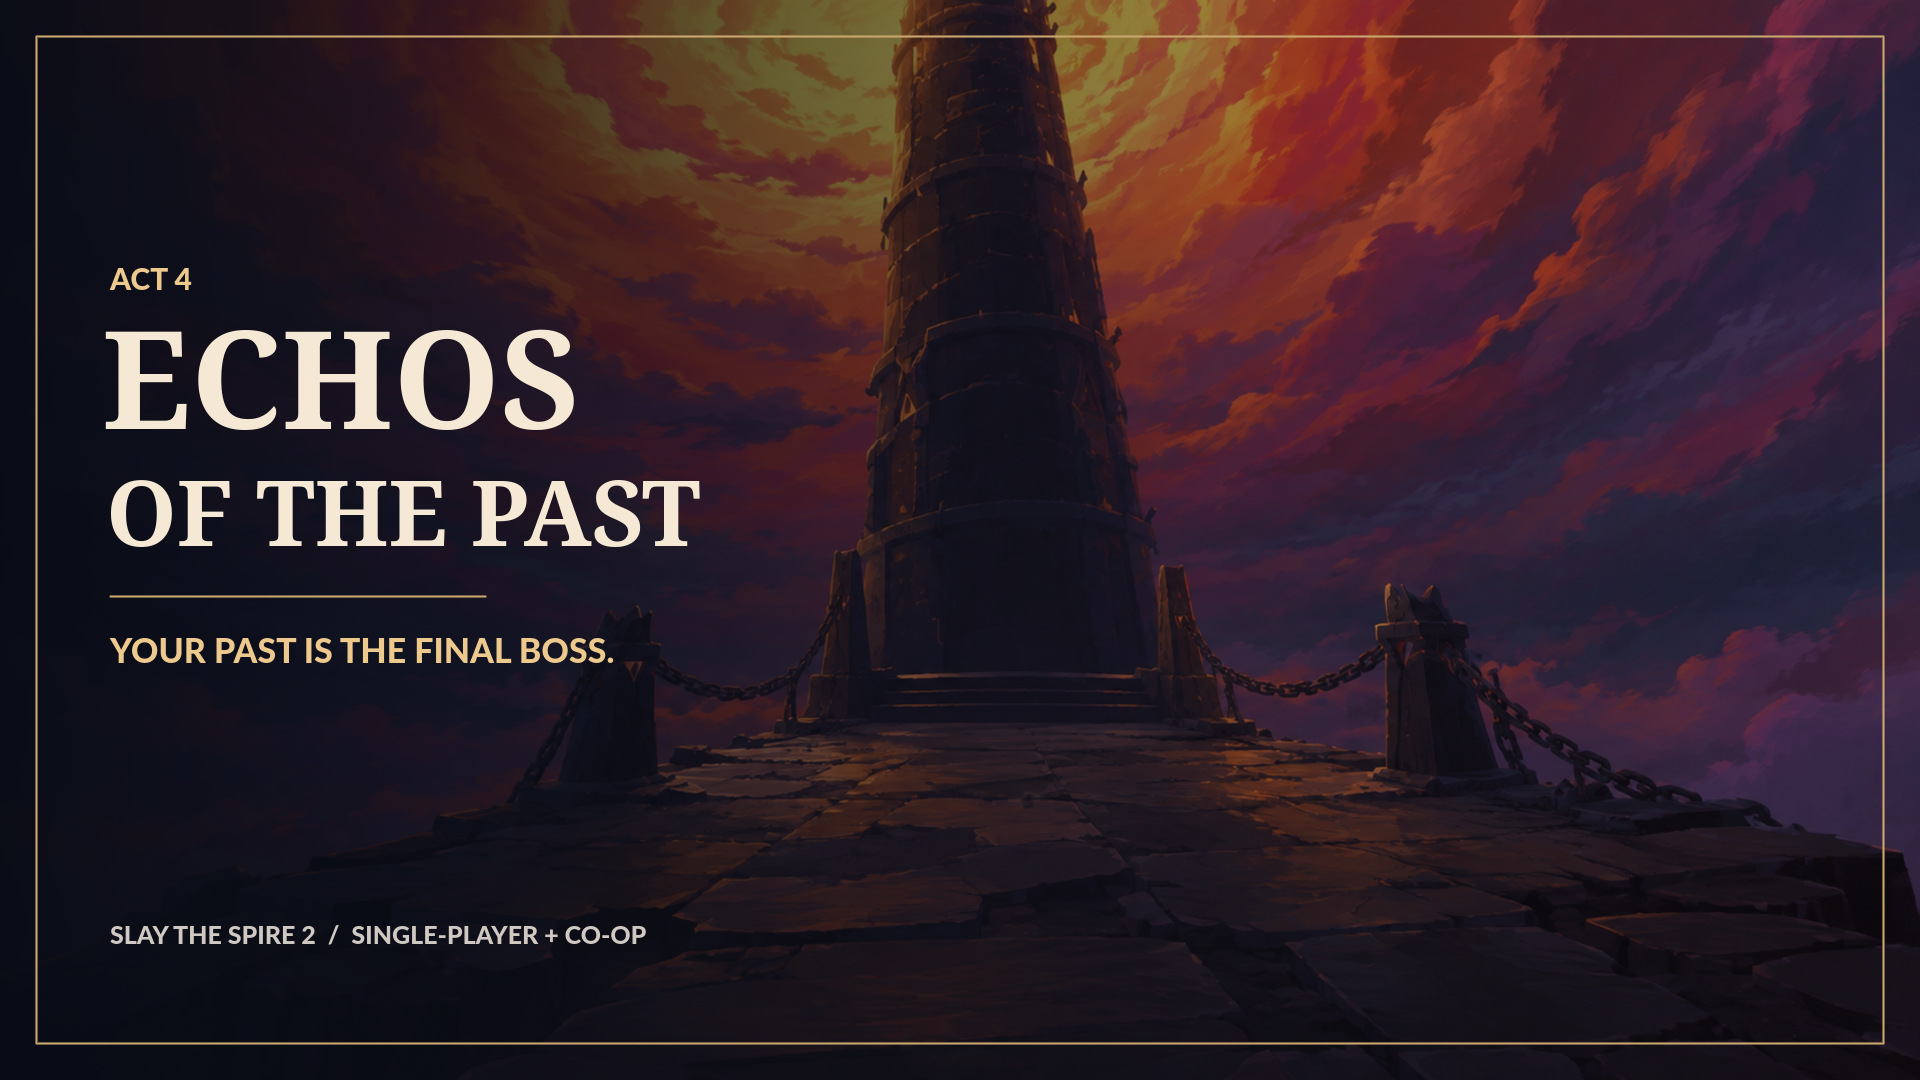
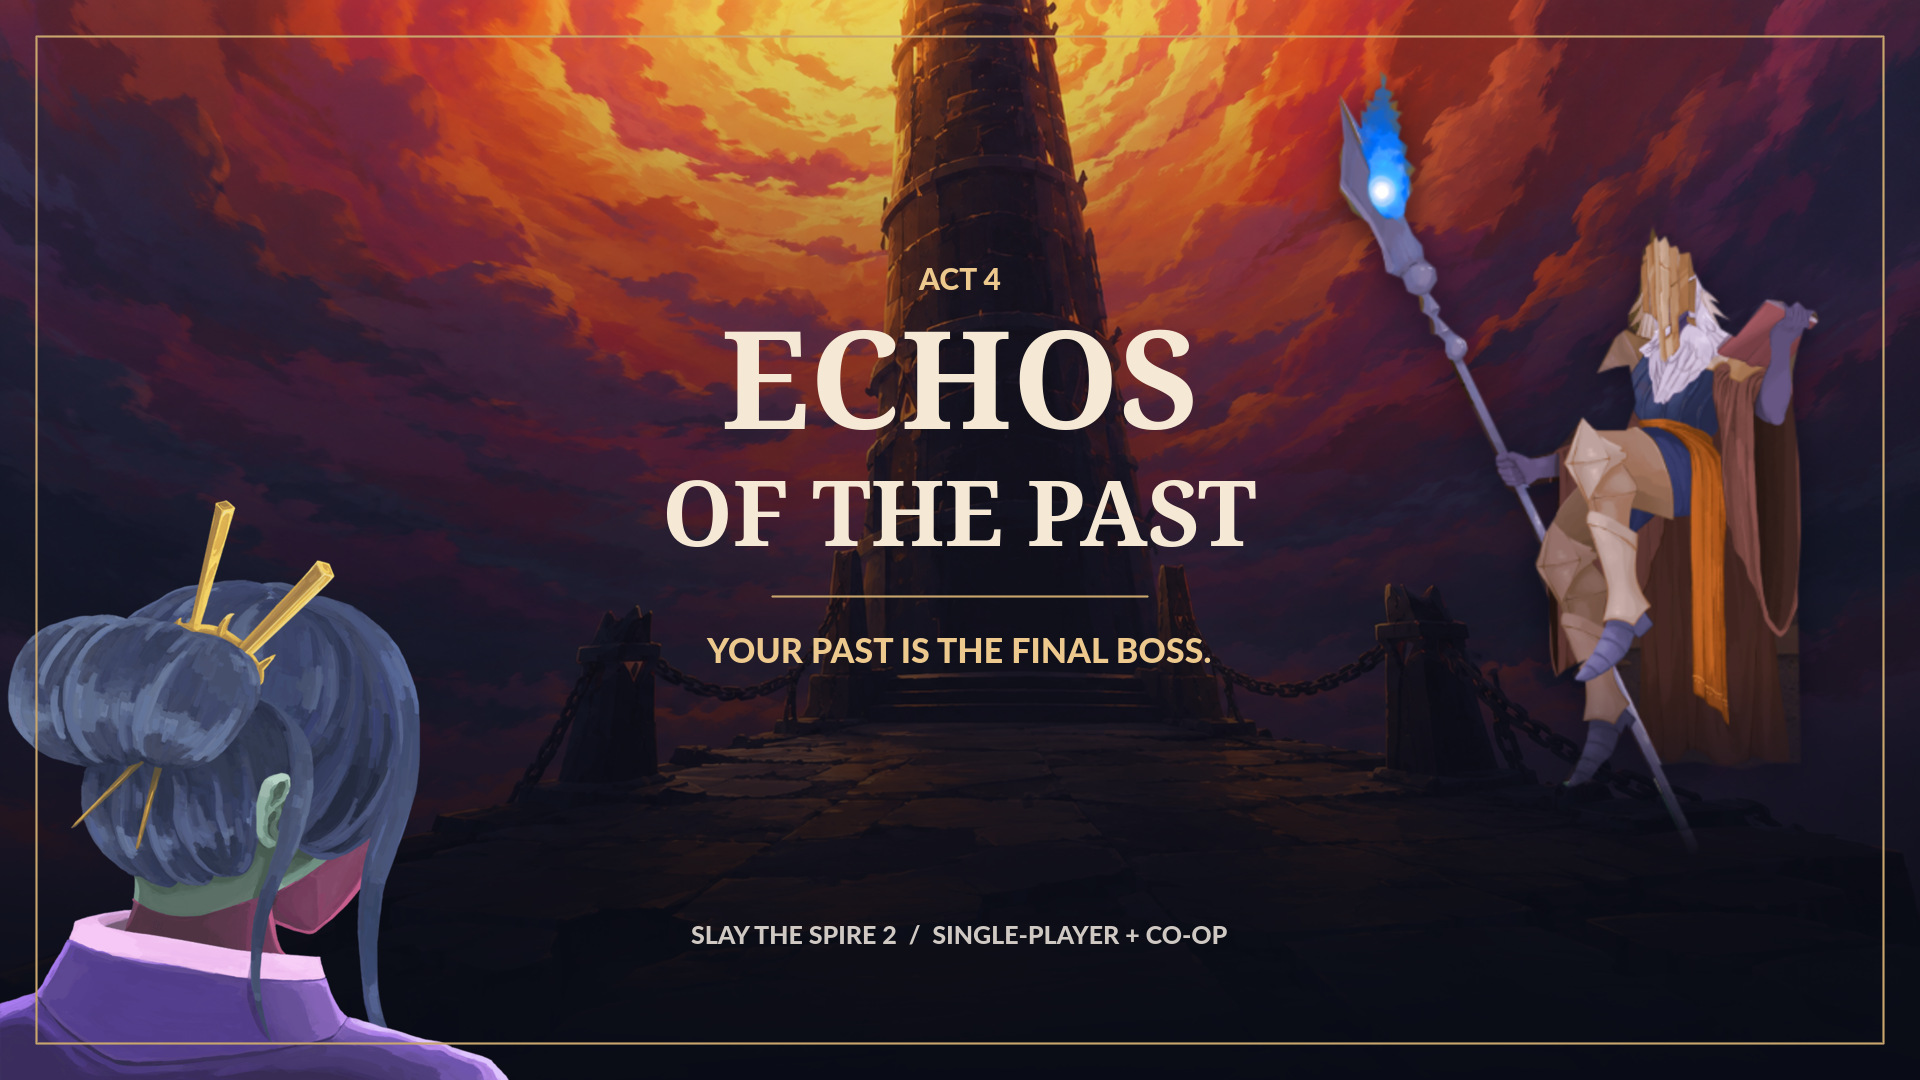
Refresh promotional artwork with Watcher and Architect

diff --git a/docs/media/README.md b/docs/media/README.md
@@ -13,10 +13,19 @@ The thumbnail, banner and in-game mod image have been updated to the new title.
 | `../../TheArchitect/mod_image.png` | 420 x 420 | In-game mod browser image, replacing the placeholder |
 
 The promotional artwork uses the repository's tower-approach illustration,
-original typography/layout, Noto Serif Bold and Lato Heavy. The editable layout
-is `scripts/build-release-media.sh`; no flattened text needs hand-editing.
+the Architect in the upper right, and a right-facing shoulder portrait in the
+lower left. The text is centered, clear of both characters. Typography
+uses Noto Serif Bold and Lato Heavy. The editable layout is
+`scripts/build-release-media.sh`; no flattened text needs hand-editing.
 Run it from anywhere with `bash scripts/build-release-media.sh`. Font file paths
 can be overridden with `SERIF_FONT` and `SANS_FONT`.
+
+Reusable character layers live in `source/`. `shoulder.png` is the supplied
+transparent portrait, cropped during composition without mirroring.
+`architect.png` is a masked, brightened cutout from the lossless native capture
+used for `screenshots/05-the-architect-2.jpg`. It retains the encounter's purple
+tint. The cutout is promotional artwork, not an unaltered gameplay screenshot;
+the gallery images are not modified by the media build.
 
 These are promotional compositions, not gameplay screenshots. Confirm the
 underlying illustration's provenance before public distribution; see
